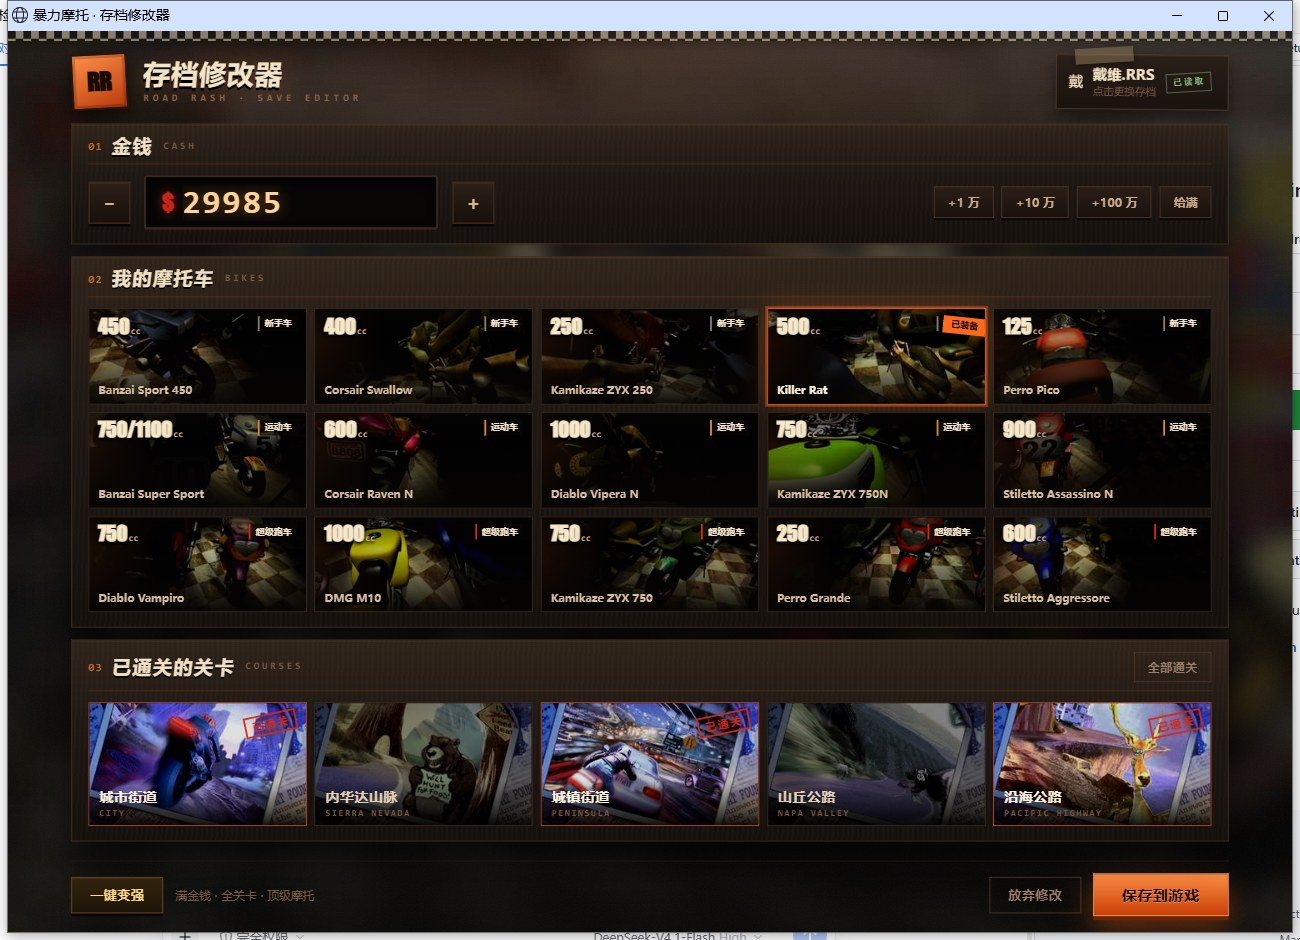
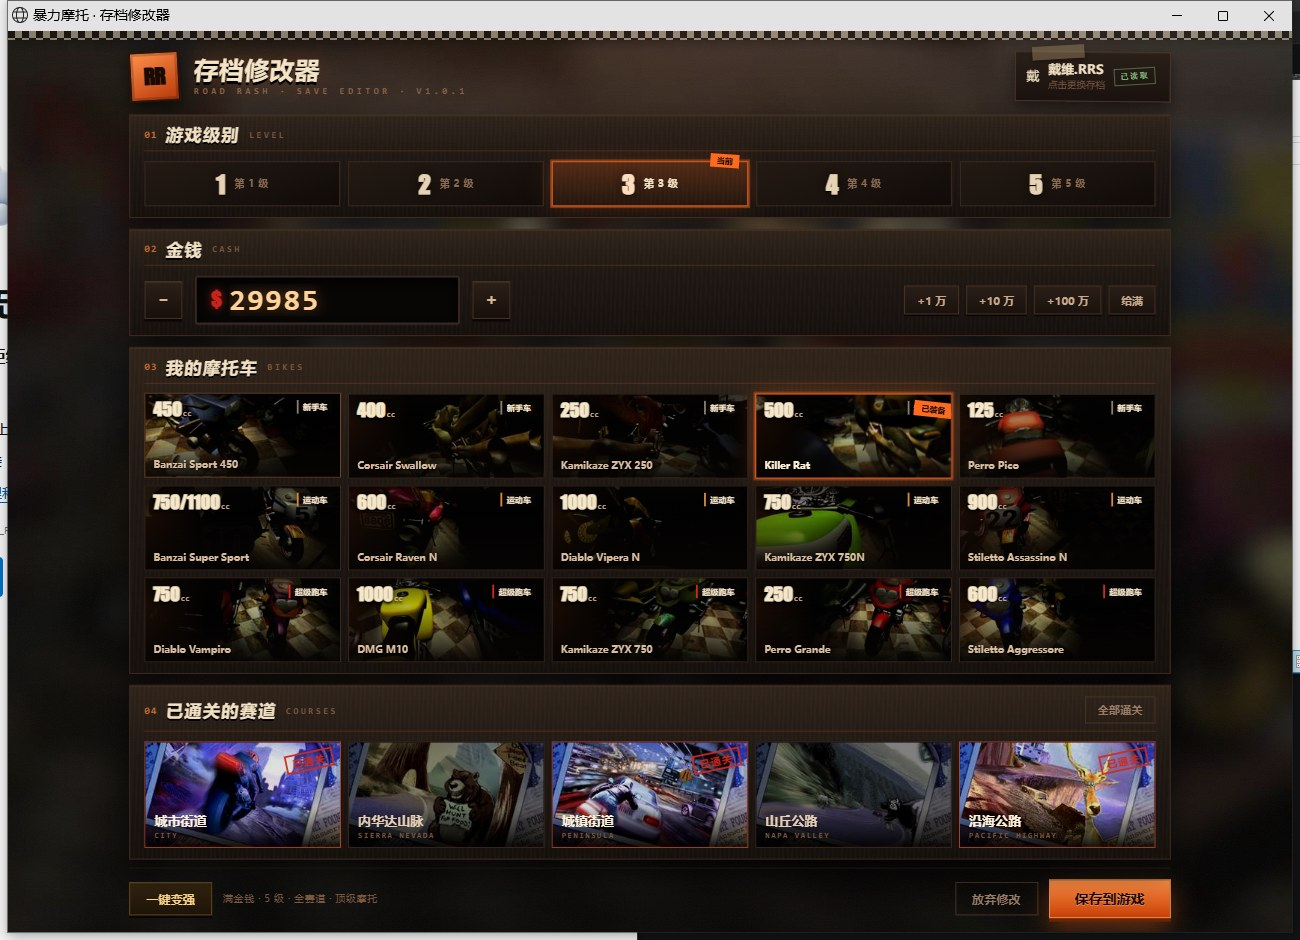
feat: 新增「游戏级别」编辑（1–5 级）
- 新增 01 游戏级别 区块：五个等级按钮，对应主菜单的「游戏级别：N 级」
  （存档偏移 0x0A，存的是 level-1；戴维.RRS 字节=2 → 游戏显示 3 级，已对齐验证）
- 「一键变强」同时把级别拉到 5 级
- 「已通关的关卡」更名为「已通关的赛道」，避免与「级别」混淆
- 界面改为四段式：级别 / 金钱 / 摩托车 / 赛道，画布高度 900→1000 自适应缩放
- 启动参数加上 --disable-sync --disable-features=msEdgeSyncPromo 等，屏蔽 Edge 首次同步弹窗
- 版本号 1.0.1，文档与截图同步更新

diff --git a/src/ui/template.html b/src/ui/template.html
@@ -41,9 +41,9 @@ body::after{
   box-shadow:0 2px 10px rgba(0,0,0,.6);
 }
 
-#stage{position:fixed;left:50%;top:50%;width:1200px;height:900px;transform-origin:center center;
+#stage{position:fixed;left:50%;top:50%;width:1200px;height:1000px;transform-origin:center center;
   transform:translate(-50%,-50%) scale(var(--k,1))}
-.app{width:1200px;height:900px;display:flex;flex-direction:column;padding:22px 22px 0}
+.app{width:1200px;height:1000px;display:flex;flex-direction:column;padding:22px 22px 0}
 
 /* ---------- header ---------- */
 header{display:flex;align-items:center;gap:16px;margin-bottom:14px}
@@ -103,7 +103,7 @@ header{display:flex;align-items:center;gap:16px;margin-bottom:14px}
 /* ---------- panels ---------- */
 main{display:flex;flex-direction:column;gap:12px;flex:1;min-height:0}
 .panel{
-  position:relative;padding:12px 16px 14px;border:1px solid var(--line);
+  position:relative;padding:12px 16px 12px;border:1px solid var(--line);
   background:
     linear-gradient(180deg,rgba(255,170,90,.055),rgba(255,255,255,0) 42%),
     repeating-linear-gradient(92deg,rgba(255,255,255,.014) 0 2px,transparent 2px 5px),
@@ -154,10 +154,39 @@ main{display:flex;flex-direction:column;gap:12px;flex:1;min-height:0}
 .chip:hover{color:#ffd0a8;border-color:#7a4a2b}
 .chip:active{transform:translateY(1px);box-shadow:0 1px 0 #090605}
 
+/* ---------- level ---------- */
+.lrow{display:flex;gap:9px}
+.lv{
+  position:relative;flex:1;height:50px;cursor:pointer;
+  border:1px solid #3a2a20;background:linear-gradient(160deg,#241a14,#100b08);
+  display:flex;align-items:center;justify-content:center;gap:10px;
+  transition:transform .15s,border-color .15s,box-shadow .15s;
+}
+.lv .n{
+  font:900 27px/1 "Impact","Arial Black",sans-serif;color:#e6d3b3;
+  text-shadow:0 2px 0 #000,0 0 14px rgba(0,0,0,.6);
+}
+.lv .t{font:700 11px/1.25 "Microsoft YaHei";color:#8a6a52;letter-spacing:.5px}
+.lv:hover{border-color:#7a4a2b;transform:translateY(-1px)}
+.lv:hover .t{color:#c9a98c}
+.lv.on{
+  border-color:var(--orange);
+  background:linear-gradient(180deg,rgba(255,106,31,.24),rgba(255,106,31,.05));
+  box-shadow:0 0 0 2px rgba(255,106,31,.38),0 0 24px rgba(255,106,31,.22);
+}
+.lv.on .n{color:#ffdcbc}
+.lv.on .t{color:#f1e0c2}
+.lv .now{
+  position:absolute;top:-9px;right:9px;padding:3px 7px;transform:rotate(4deg);
+  background:var(--orange);color:#1a0a04;font:900 9px/1 "Microsoft YaHei";
+  opacity:0;transition:.15s;
+}
+.lv.on .now{opacity:1}
+
 /* ---------- bikes ---------- */
 .bgrid{display:grid;grid-template-columns:repeat(5,1fr);gap:8px}
 .bike{
-  position:relative;height:96px;overflow:hidden;cursor:pointer;
+  position:relative;height:94px;overflow:hidden;cursor:pointer;
   border:1px solid #3a2a20;background:#0d0906;
   transition:transform .15s,border-color .15s,box-shadow .15s;
 }
@@ -185,7 +214,7 @@ main{display:flex;flex-direction:column;gap:12px;flex:1;min-height:0}
 .bike.on .mark{opacity:1}
 /* ---------- courses ---------- */
 .cgrid{display:grid;grid-template-columns:repeat(5,1fr);gap:8px}
-.course{position:relative;height:124px;overflow:hidden;cursor:pointer;border:1px solid #3a2a20;background:#0d0908;transition:.15s}
+.course{position:relative;height:118px;overflow:hidden;cursor:pointer;border:1px solid #3a2a20;background:#0d0908;transition:.15s}
 .course img{position:absolute;inset:0;width:100%;height:100%;object-fit:cover;
   filter:grayscale(.62) brightness(.5) contrast(1.08);transition:.25s}
 .course .cap{position:absolute;left:0;right:0;bottom:0;padding:9px 10px 8px;
@@ -252,7 +281,7 @@ footer{display:flex;align-items:center;gap:12px;padding:12px 0 16px;margin-top:1
     <div class="plate"><span>RR</span></div>
     <div class="brand">
       <h1>存档修改器</h1>
-      <p>ROAD RASH · SAVE EDITOR · V1.0.0</p>
+      <p>ROAD RASH · SAVE EDITOR · V1.0.1</p>
     </div>
     <div class="spacer"></div>
     <div class="tag" id="btnOpen" title="换一个存档">
@@ -267,7 +296,15 @@ footer{display:flex;align-items:center;gap:12px;padding:12px 0 16px;margin-top:1
   <main>
     <section class="panel">
       <div class="phead">
-        <span class="num">01</span><h2>金钱</h2><span class="en">CASH</span>
+        <span class="num">01</span><h2>游戏级别</h2><span class="en">LEVEL</span>
+        <div class="right"><span class="dirty" id="levelDirty">已改</span></div>
+      </div>
+      <div class="lrow" id="levels"></div>
+    </section>
+
+    <section class="panel">
+      <div class="phead">
+        <span class="num">02</span><h2>金钱</h2><span class="en">CASH</span>
         <div class="right"><span class="dirty" id="cashDirty">已改</span></div>
       </div>
       <div class="mrow">
@@ -285,7 +322,7 @@ footer{display:flex;align-items:center;gap:12px;padding:12px 0 16px;margin-top:1
 
     <section class="panel">
       <div class="phead">
-        <span class="num">02</span><h2>我的摩托车</h2><span class="en">BIKES</span>
+        <span class="num">03</span><h2>我的摩托车</h2><span class="en">BIKES</span>
         <div class="right">
           
           <span class="dirty" id="bikeDirty">已改</span>
@@ -296,7 +333,7 @@ footer{display:flex;align-items:center;gap:12px;padding:12px 0 16px;margin-top:1
 
     <section class="panel">
       <div class="phead">
-        <span class="num">03</span><h2>已通关的关卡</h2><span class="en">COURSES</span>
+        <span class="num">04</span><h2>已通关的赛道</h2><span class="en">COURSES</span>
         <div class="right"><button class="btn ghost" id="allCourses" style="padding:8px 13px;font-size:12px">全部通关</button></div>
       </div>
       <div class="cgrid" id="courses"></div>
@@ -305,7 +342,7 @@ footer{display:flex;align-items:center;gap:12px;padding:12px 0 16px;margin-top:1
 
   <footer>
     <button class="btn boost" id="boost">一键变强</button>
-    <span class="fhint">满金钱 · 全关卡 · 顶级摩托</span>
+    <span class="fhint">满金钱 · 5 级 · 全赛道 · 顶级摩托</span>
     <span class="grow"></span>
     <span class="dirty" id="dirty">有改动未保存</span>
     <button class="btn ghost" id="reset">放弃修改</button>
@@ -364,6 +401,16 @@ function toast(html){const t=$("#toast");t.innerHTML=html;t.classList.add("show"
   clearTimeout(t._h);t._h=setTimeout(()=>t.classList.remove("show"),2600);}
 function isDirty(){const a=build(S);for(let i=4;i<160;i++) if(a[i]!==ORIG[i]) return true;return false;}
 
+function renderLevels(){
+  const box=$("#levels"); box.innerHTML="";
+  for(let v=1;v<=5;v++){
+    const el=document.createElement("div");
+    el.className="lv"+(v===S.level?" on":"");
+    el.innerHTML=`<div class="now">当前</div><div class="n">${v}</div><div class="t">第 ${v} 级</div>`;
+    el.onclick=()=>{S.level=v;render();};
+    box.appendChild(el);
+  }
+}
 function renderBikes(){
   const box=$("#bikes"); box.innerHTML="";
   BIKES.forEach((b,i)=>{
@@ -395,9 +442,10 @@ function render(){
   $("#fname").textContent=S.name;
   $("#ava").textContent=NAMES[S.rider-1].slice(0,1);
   $("#cash").value=S.cash;
-  renderBikes(); renderCourses();
+  renderLevels(); renderBikes(); renderCourses();
   const b=build(S);
   $("#cashDirty").classList.toggle("show", b[0x10]!==ORIG[0x10]||b[0x11]!==ORIG[0x11]||b[0x12]!==ORIG[0x12]||b[0x13]!==ORIG[0x13]);
+  $("#levelDirty").classList.toggle("show", S.level!==ORIG[10]+1);
   $("#bikeDirty").classList.toggle("show", S.bike!==ORIG[12]);
   $("#dirty").classList.toggle("show", isDirty());
 }
@@ -477,8 +525,8 @@ document.querySelectorAll(".chip").forEach(c=>c.onclick=()=>{
   if(c.dataset.add) S.cash=Math.min(2147483647,S.cash+parseInt(c.dataset.add,10));
   if(c.dataset.set) S.cash=parseInt(c.dataset.set,10);
   render();});
-$("#allCourses").onclick=()=>{S.mask=0x1f;render();toast("5 条关卡已全部点亮");};
-$("#boost").onclick=()=>{S.cash=99999999;S.mask=0x1f;S.bike=11;render();
+$("#allCourses").onclick=()=>{S.mask=0x1f;render();toast("5 条赛道已全部点亮");};
+$("#boost").onclick=()=>{S.cash=99999999;S.level=5;S.mask=0x1f;S.bike=11;render();
   toast('<span class="k">✓</span> 已调到最强，记得点“保存到游戏”');};
 $("#reset").onclick=()=>{S=parse(ORIG,S.name);render();toast("已恢复成打开时的样子");};
 
@@ -516,7 +564,7 @@ $("#save").onclick=async()=>{
 
 /* 自适应缩放：窗口多大都完整显示 */
 function fit(){
-  const k=Math.min(window.innerWidth/1200, window.innerHeight/900);
+  const k=Math.min(window.innerWidth/1200, window.innerHeight/1000);
   document.documentElement.style.setProperty("--k", (k>1.35?1.35:k).toFixed(3));
 }
 window.addEventListener("resize",fit); fit();
@@ -528,7 +576,7 @@ if(API){
 }else{
   setTimeout(ensureSomething,400);
 }
-if(location.hash==="#boost"){S.cash=99999999;S.mask=0x1f;S.bike=11;render();
+if(location.hash==="#boost"){S.cash=99999999;S.level=5;S.mask=0x1f;S.bike=11;render();
   toast('<span class="k">✓</span> 已调到最强，记得点“保存到游戏”');}
 </script>
 </body>

diff --git a/src/Launcher.cs b/src/Launcher.cs
@@ -15,8 +15,8 @@ using System.Runtime.InteropServices;
 [assembly: AssemblyTitle("Road Rash Save Editor")]
 [assembly: AssemblyDescription("暴力摩托（Road Rash 1996）存档修改器")]
 [assembly: AssemblyProduct("RoadRashSaveEditor")]
-[assembly: AssemblyVersion("1.0.0.0")]
-[assembly: AssemblyFileVersion("1.0.0.0")]
+[assembly: AssemblyVersion("1.0.1.0")]
+[assembly: AssemblyFileVersion("1.0.1.0")]
 
 namespace RRS
 {
@@ -63,7 +63,10 @@ namespace RRS
                 int winW = 1300, winH = 940;
                 var psi = new ProcessStartInfo(edge,
                     "--app=" + url + " --window-size=" + winW + "," + winH +
-                    " --user-data-dir=\"" + profile + "\" --no-first-run --no-default-browser-check");
+                    " --user-data-dir=\"" + profile + "\"" +
+                    " --no-first-run --no-default-browser-check --no-service-autorun --disable-sync" +
+                    " --disable-background-networking" +
+                    " --disable-features=msEdgeSyncPromo,msImplicitSignin,msEdgeIdentity");
                 psi.UseShellExecute = false;
                 try
                 {

diff --git a/docs/usage.md b/docs/usage.md
@@ -1,4 +1,4 @@
-# 使用说明
+# 使用说明
 
 > 适用：Road Rash（暴力摩托）1996 PC 中文版 / 英文原版，存档 `*.RRS`
 
@@ -8,9 +8,10 @@
 
 | 能改 | 说明 |
 |---|---|
+| **游戏级别** | 1 ~ 5 级，就是主菜单上显示的「游戏级别：N 级」 |
 | **金钱** | 0 ~ 99,999,999，游戏里买车、修车都够用 |
 | **当前摩托车** | 15 台任选，选完游戏里就是这辆车 |
-| **已通关的关卡** | 5 条赛道，点亮即视为已通关，可以只补某一条 |
+| **已通关的赛道** | 5 条赛道，点亮即视为已通关，可以只补某一条 |
 | **一键变强** | 满金钱 + 全关卡 + 顶级车（DMG M10），三秒搞定 |
 
 **不提供修改**：车手、AI 数据、比赛名次等。这些字段和文件名、录像数据绑定，乱改容易出现「车手对不上档」的问题，所以故意没开放。
@@ -46,6 +47,13 @@ C:\Games\Roadrash\Save\汤姆.RRS
 
 ## 四、每个选项怎么选
 
+### 游戏级别（1–5 级）
+
+- 对应游戏主菜单左上角那行「游戏级别：N 级」，也是决定 AI 速度、赛道难度、剧情进度的那一项；
+- 数字越大：对手越快、比赛越难、内容越靠后；1 级最轻松，5 级是最后一档；
+- 想直接玩后面的内容 → 选 4~5；想轻松刷钱刷车 → 留在 1~2；
+- 和「已通关的赛道」不是一回事：**级别是整档进度/难度，关卡是 5 条赛道各自的通过记录**。
+
 ### 金钱
 
 - 直接输入数字，或者用 `−` / `+`（一次 1 万）；
@@ -74,7 +82,7 @@ C:\Games\Roadrash\Save\汤姆.RRS
 
 > 换车只是把「当前骑的车」换掉，不会自动配套改装或等级。
 
-### 已通关的关卡（5 条）
+### 已通关的赛道（5 条）
 
 | 位 | 赛道 |
 |---|---|

diff --git a/README.md b/README.md
@@ -12,10 +12,11 @@
 
 | 能改 | 说明 |
 |---|---|
+| 🎚 游戏级别 | 1 ~ 5 级（主菜单上的「游戏级别：N 级」） |
 | 💰 金钱 | 0 ~ 99,999,999 |
 | 🏍 当前摩托车 | 15 台任选（新手车 / 运动车 / 超级跑车） |
-| 🏁 已通关关卡 | 5 条赛道，逐条点亮或「全部通关」 |
-| ⚡ 一键变强 | 满金钱 + 全关卡 + 顶级车（DMG M10） |
+| 🏁 已通关赛道 | 5 条赛道，逐条点亮或「全部通关」 |
+| ⚡ 一键变强 | 满金钱 + 5 级 + 全赛道 + 顶级车（DMG M10） |
 
 界面里没有任何字节、偏移、校验和——这些都在后台自动处理。
 

diff --git a/CHANGELOG.md b/CHANGELOG.md
@@ -1,4 +1,11 @@
-# 更新日志
+'# 更新日志
+
+## v1.0.1
+
+- **新增「游戏级别」编辑**：1–5 级，对应主菜单上的「游戏级别：N 级」（存档偏移 `0x0A`）
+- 「一键变强」现在同时把级别拉到 5 级
+- 界面改为四段式：游戏级别 / 金钱 / 摩托车 / 已通关的关卡
+- 启动时抑制 Edge 的同步/登录首次弹窗，打开即用'
 
 ## v1.0.0 — 首个版本
 
